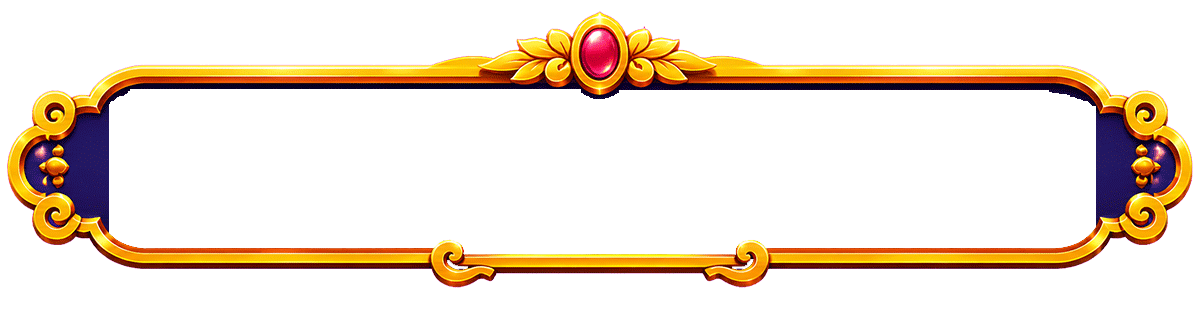
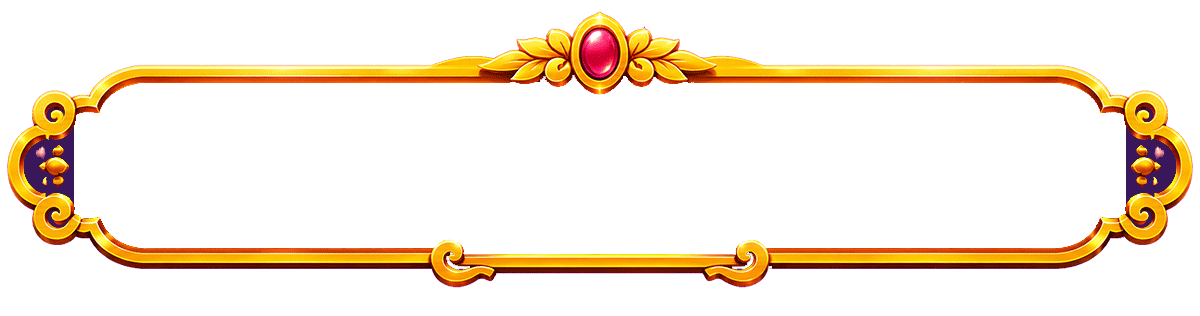
xxxx

Changed region(s): [[0.0925, 0.2563, 1.0, 0.769], [0.0, 0.3133, 0.0925, 0.712]]

diff --git a/app.js b/app.js
@@ -552,7 +552,7 @@
         }
         const accounting = this.getWinAccounting(time);
         if (accounting.transferProgress >= 1) this.completeBalanceTransfer();
-        if (this.winTier !== 'max' && time - this.winStart > this.getWinTiming().totalDuration) {
+        if (time - this.winStart > this.getWinTiming().totalDuration) {
           this.advanceAfterResult(time);
         }
       }
@@ -2170,25 +2170,20 @@
     drawMaxWinOverlay(time) {
       if (this.state !== 'WIN' || this.winTier !== 'max') return;
       const elapsed = time - this.winStart;
+      // Celebração curta: a apuração das linhas continua ao fundo, mas o foco
+      // visual de Vitória Máxima sai sozinho após dois segundos.
+      if (elapsed > 2000) return;
       const local = Math.max(0, elapsed);
-      const appear = clamp(local / 360, 0, 1);
-      const accounting = this.getWinAccounting(time);
+      const appear = clamp(local / 220, 0, 1) * clamp((2000 - local) / 260, 0, 1);
       const ctx = this.ctx;
       ctx.save();
-      ctx.globalAlpha = appear;
-      const veil = ctx.createRadialGradient(390, 720, 80, 390, 720, 850);
-      veil.addColorStop(0, 'rgba(117,24,101,0.56)');
-      veil.addColorStop(0.42, 'rgba(35,11,79,0.72)');
-      veil.addColorStop(1, 'rgba(8,4,28,0.88)');
-      ctx.fillStyle = veil;
-      ctx.fillRect(0, 0, W, H);
 
       ctx.save();
       ctx.translate(390, 640);
       ctx.rotate(local * 0.00018);
       ctx.globalCompositeOperation = 'screen';
       ctx.fillStyle = '#ffe77a';
-      ctx.globalAlpha = appear * 0.24;
+      ctx.globalAlpha = appear * 0.38;
       for (let ray = 0; ray < 24; ray += 1) {
         ctx.rotate(TAU / 24);
         ctx.beginPath();
@@ -2200,34 +2195,33 @@
       }
       ctx.restore();
 
+      // Escurece somente a área do sol giratório; tela e linhas seguem legíveis.
+      ctx.save();
+      ctx.beginPath();
+      ctx.arc(390, 640, 318, 0, TAU);
+      ctx.fillStyle = `rgba(5, 4, 20, ${0.62 * appear})`;
+      ctx.fill();
+      ctx.strokeStyle = `rgba(255, 222, 104, ${0.55 * appear})`;
+      ctx.lineWidth = 7;
+      ctx.stroke();
+      ctx.restore();
+
       const frame = [ASSETS.celebration3, ASSETS.celebration4, ASSETS.celebration5]
       [Math.floor(local / 230) % 3] || this.getIdleMascotFrame(time);
       ctx.shadowColor = '#ffd94e';
       ctx.shadowBlur = 38;
       this.drawImageContain(frame, 390, 640 - Math.sin(local * 0.006) * 12, 360, 390);
-
+      ctx.globalAlpha = appear;
       ctx.textAlign = 'center';
       ctx.textBaseline = 'middle';
-      ctx.font = '900 58px Georgia, serif';
-      ctx.lineWidth = 12;
+      ctx.font = '900 50px Georgia, serif';
+      ctx.lineWidth = 10;
       ctx.strokeStyle = '#63163f';
       ctx.fillStyle = '#fff18a';
       ctx.shadowColor = '#ffd132';
-      ctx.shadowBlur = 30;
+      ctx.shadowBlur = 24;
       ctx.strokeText('VITÓRIA MÁXIMA', 390, 870);
       ctx.fillText('VITÓRIA MÁXIMA', 390, 870);
-      ctx.font = '900 68px Arial Black, Arial';
-      ctx.strokeText(money(accounting.counted), 390, 955);
-      ctx.fillText(money(accounting.counted), 390, 955);
-      if (accounting.transferProgress >= 1) {
-        const pulse = 0.72 + Math.sin(time * 0.007) * 0.28;
-        ctx.globalAlpha = appear * pulse;
-        ctx.font = '900 22px Arial Black, Arial';
-        ctx.fillStyle = '#fff7cf';
-        ctx.shadowBlur = 12;
-        ctx.fillText('TOQUE PARA CONTINUAR', 390, 1050);
-        this.hit(0, 0, W, H, () => this.advanceAfterResult(performance.now()), 'continue-max-win');
-      }
       ctx.restore();
     }
 
@@ -2279,11 +2273,9 @@
     getWinBannerText(accounting) {
       const phase = this.getWinLinePhase(this.renderTime);
       const amount = money(accounting.counted);
-      if (phase.settling) return `GANHO ${amount}`;
+      if (phase.settling) return `GANHOU: ${amount}`;
       if (!phase.showAll) {
-        const step = this.getWinSteps()[phase.index];
-        const prefix = step?.kind === 'line' ? `LINHA ${step.index + 1}` : `PRÊMIO ${step?.index || 1}`;
-        return `${prefix} • ${amount}`;
+        return `GANHOU: ${amount}`;
       }
       if (this.winTier === 'max') return `GANHO TOTAL • ${money(this.result.total)}`;
       if (this.winTier === 'big') return money(this.result.total);

diff --git a/tests/project.test.js b/tests/project.test.js
@@ -51,7 +51,7 @@ assert.match(app, /const minimumWin = Math\.min/);
 assert.match(app, /\* 2\.6, 0, 1/);
 assert.match(app, /completeBalanceTransfer/);
 assert.match(app, /launchWinTransfer/);
-assert.match(app, /`LINHA \$\{step\.index \+ 1\}`/);
+assert.match(app, /GANHOU: \$\{amount\}/);
 assert.match(app, /drawMoneyTransfers/);
 assert.match(app, /WIN_TIER_CONFIG/);
 assert.match(app, /minRatio: 0, maxRatio: 2/);
@@ -64,8 +64,10 @@ assert.match(app, /settleDuration/);
 assert.match(app, /drawWinAtmosphere/);
 assert.match(app, /drawMaxWinOverlay/);
 assert.match(app, /if \(this\.winTier === 'max'\) return/);
-assert.match(app, /this\.winTier !== 'max' && time - this\.winStart > this\.getWinTiming\(\)\.totalDuration/);
-assert.match(app, /this\.hit\(0, 0, W, H, \(\) => this\.advanceAfterResult/);
+assert.match(app, /time - this\.winStart > this\.getWinTiming\(\)\.totalDuration/);
+assert.match(app, /if \(elapsed > 2000\) return/);
+assert.match(app, /ctx\.arc\(390, 640, 318, 0, TAU\)/);
+assert.doesNotMatch(app, /TOQUE PARA CONTINUAR/);
 assert.match(app, /launchCelebrationConfetti/);
 assert.match(app, /getWinBannerText/);
 assert.match(app, /const centerDisplay = isWin \|\| this\.tickerMode === 'center'/);

diff --git a/CHECKLIST.md b/CHECKLIST.md
@@ -193,6 +193,11 @@ Legenda:
 - [x] Validar enquadramento em viewport equivalente ao iPhone 15 Pro Max (`430 × 932`).
 - [x] Executar giro completo no navegador com prêmio e console sem erros.
 
+### Feedback de vitória — 18/07/2026
+
+- [x] Exibir ganhos de cada linha no display como `GANHOU: R$...`, sem repetir o número da linha.
+- [x] Exibir Vitória Máxima em foco circular escuro no sol giratório, por 2 segundos e sem interação obrigatória.
+
 ### Cilindros e giro
 
 - [x] Implementar três cilindros.